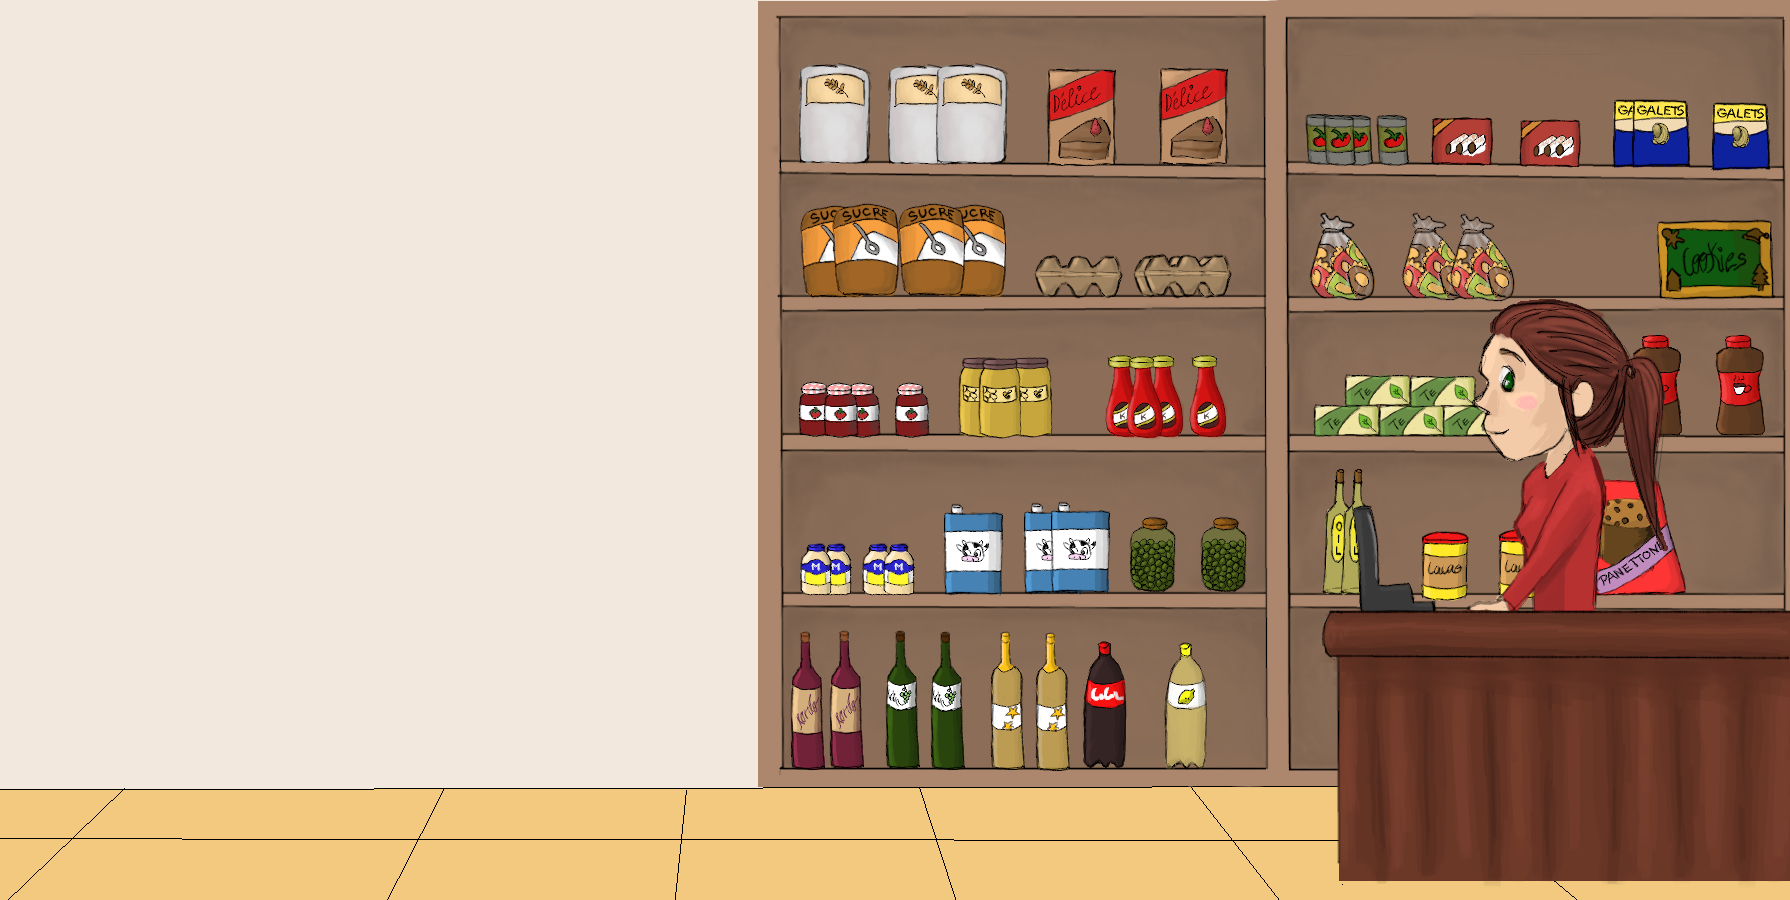
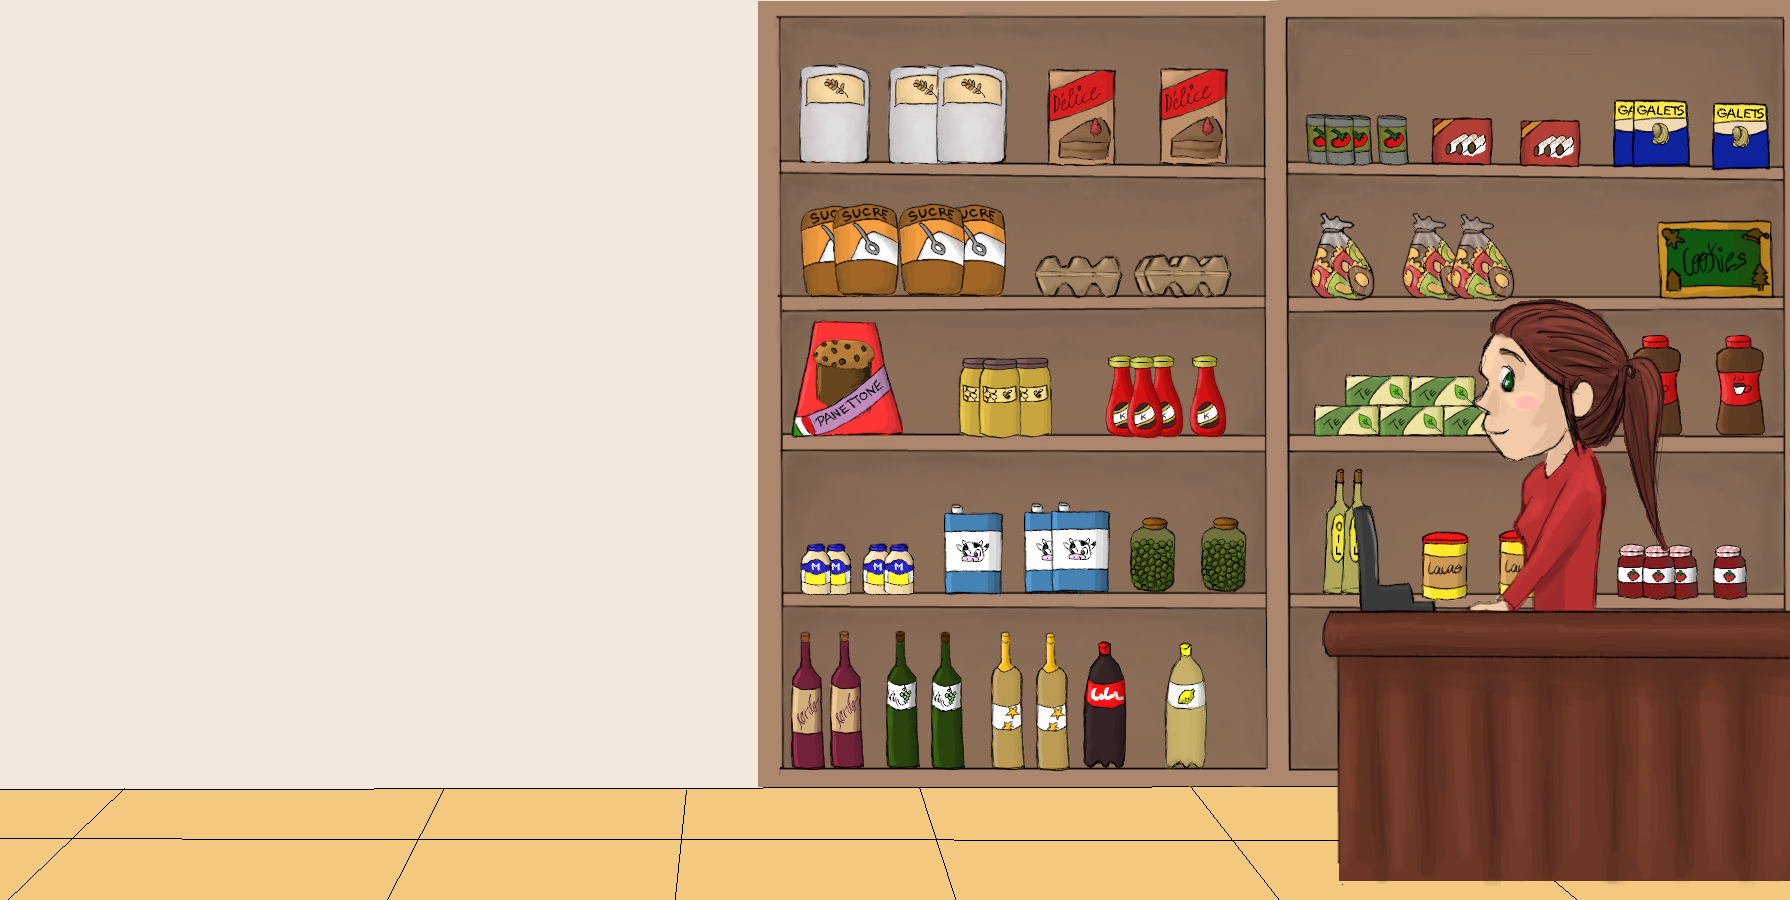
fix panettone bug & border & center items navbar

Changed region(s): [[0.8911, 0.5289, 0.9832, 0.6844], [0.4302, 0.3422, 0.5223, 0.4978]]

diff --git a/webApp/game_mireia/js.js b/webApp/game_mireia/js.js
@@ -1,24 +1,24 @@
 let character = { x: 50, y: 140 };
 let productsGrocery = [{ name: "Harina", img: "img/Grocery/Harina.png", x: 395, y: 6 },
-{ name: "Masa pastel", img: "img/Grocery/Masa pastel.png", x: 535, y: 7 }, { name: "Azúcar", img: "img/Grocery/Azúcar.png", x: 415, y: 78},
-{ name: "Huevos", img: "img/Grocery/Huevos.png", x: 489, y: 114 }, { name: "Salsa de tomate", img: "img/Grocery/Salsa de tomate.png", x: 673, y: 42 },
-{ name: "Galletas", img: "img/Grocery/Galletas.png", x: 763, y: 89 }, { name: "Polvorones", img: "img/Grocery/Polvorones.png", x: 665, y: 83 },
-{ name: "Láminas para canelones", img: "img/Grocery/Láminas para canelones.png", x: 720, y: 46 }, { name: "Galets", img: "img/Grocery/Galets.png", x: 820, y: 30 },
-{ name: "Miel", img: "img/Grocery/Miel.png", x: 505, y: 158 }, { name: "Ketchup", img: "img/Grocery/Ketchup.png", x: 567, y: 154 },
-{ name: "Mermelada", img: "img/Grocery/Mermelada.png", x: 426, y: 176 }, { name: "Té", img: "img/Grocery/Té.png", x: 668, y: 164 },
-{ name: "Café", img: "img/Grocery/Café.png", x: 825, y: 142 }, { name: "Vino Blanco", img: "img/Grocery/Vino Blanco.png", x: 440, y: 280 },
-{ name: "Vino Tinto", img: "img/Grocery/Vino Tinto.png", x: 392, y: 276 }, { name: "Cava", img: "img/Grocery/Cava.png", x: 490, y: 280 },
-{ name: "Cola", img: "img/Grocery/Cola.png", x: 535, y: 285 }, { name: "Limonada", img: "img/Grocery/Limonada.png", x: 580, y: 288 },
-{ name: "Naranjada", img: "img/Grocery/Naranjada.png", x: 631, y: 289 }, { name: "Mayonesa", img: "img/Grocery/mayonesa.png", x: 412, y: 258 }, 
-{name: "Aceite", img: "img/Grocery/Aceite.png", x: 640, y: 202}, {name: "Cacao en polvo", img: "img/Grocery/Cacao en polvo.png", x: 715, y: 248},
-{name: "Olivas", img: "img/Grocery/Olivas.png", x: 570, y: 240}, {name: "Leche", img: "img/Grocery/Leche.png", x: 470, y: 228},
-{name: "Panettone", img: "img/Grocery/Panettone.png", x: 805, y: 209}];
+{ name: "Masa pastel", img: "img/Grocery/Masa pastel.png", x: 535, y: 7 }, { name: "Azúcar", img: "img/Grocery/Azúcar.png", x: 415, y: 76},
+{ name: "Huevos", img: "img/Grocery/Huevos.png", x: 485, y: 113 }, { name: "Salsa de tomate", img: "img/Grocery/Salsa de tomate.png", x: 673, y: 41 },
+{ name: "Galletas", img: "img/Grocery/Galletas.png", x: 763, y: 88 }, { name: "Polvorones", img: "img/Grocery/Polvorones.png", x: 665, y: 82 },
+{ name: "Láminas para canelones", img: "img/Grocery/Láminas para canelones.png", x: 720, y: 45 }, { name: "Galets", img: "img/Grocery/Galets.png", x: 820, y: 29 },
+{ name: "Miel", img: "img/Grocery/Miel.png", x: 505, y: 157 }, { name: "Ketchup", img: "img/Grocery/Ketchup.png", x: 567, y: 152 },
+{ name: "Mermelada", img: "img/Grocery/Mermelada.png", x: 835, y: 255}, { name: "Té", img: "img/Grocery/Té.png", x: 668, y: 163 },
+{ name: "Café", img: "img/Grocery/Café.png", x: 822, y: 139 }, { name: "Vino Blanco", img: "img/Grocery/Vino Blanco.png", x: 440, y: 277 },
+{ name: "Vino Tinto", img: "img/Grocery/Vino Tinto.png", x: 392, y: 272 }, { name: "Cava", img: "img/Grocery/Cava.png", x: 490, y: 278 },
+{ name: "Cola", img: "img/Grocery/Cola.png", x: 535, y: 282 }, { name: "Limonada", img: "img/Grocery/Limonada.png", x: 580, y: 284 },
+{ name: "Naranjada", img: "img/Grocery/Naranjada.png", x: 631, y: 285 }, { name: "Mayonesa", img: "img/Grocery/mayonesa.png", x: 412, y: 255 }, 
+{name: "Aceite", img: "img/Grocery/Aceite.png", x: 640, y: 200}, {name: "Cacao en polvo", img: "img/Grocery/Cacao en polvo.png", x: 715, y: 245},
+{name: "Olivas", img: "img/Grocery/Olivas.png", x: 567, y: 237}, {name: "Leche", img: "img/Grocery/Leche.png", x: 470, y: 225},
+{name: "Panettone", img: "img/Grocery/Panettone.png", x: 390, y: 128}];
 
 let productsFruit = [{ name: "Manzana", img: "img/Fruits/Manzana.png", x: 760, y: 325 }, { name: "Uva", img: "img/Fruits/Uva.png", x: 690, y: 260 },
 { name: "Plátanos", img: "img/Fruits/Plátanos.png", x: 625, y: 256 }, { name: "Pera", img: "img/Fruits/Pera.png", x: 700, y: 190 }, { name: "Mandarina", img: "img/Fruits/Mandarina.png", x: 820, y: 250 },
 { name: "Zanahoria", img: "img/Fruits/Zanahoria.png", x: 810, y: 75 }, { name: "Cebolla", img: "img/Fruits/Cebolla.png", x: 810, y: 160 },
 { name: "Ciruela", img: "img/Fruits/Ciruela.png", x: 870, y: 100 }, { name: "Pimiento", img: "img/Fruits/Pimiento.png", x: 740, y: 140 },
-{ name: "Tomate", img: "img/Fruits/Tomate.png", x: 870, y: 198 }, {name: "Berenjena", img: "img/Fruits/Berenjena.png", x: 230, y: 265}, 
+{ name: "Tomate", img: "img/Fruits/Tomate.png", x: 865, y: 198 }, {name: "Berenjena", img: "img/Fruits/Berenjena.png", x: 230, y: 265}, 
 { name: "Piña", img: "img/Fruits/Piña.png", x: 423, y: 142}, {name: "Granada", img: "img/Fruits/Granada.png", x: 505, y: 280}, { name: "Limón", img: "img/Fruits/Limón.png", x: 740, y: 220} 
 ];
 
@@ -479,7 +479,7 @@ function endGame() {
     eraseProducts();
     afterGame = document.getElementById("afterGame");
     afterGame.style.display = "inline-block";
-    document.querySelector("#afterGame > h1").innerHTML = "Has conseguido " + points + " puntos!";
+    document.querySelector("#afterGame > h1").innerHTML = "¡Has conseguido " + points + " puntos!";
     document.getElementById("replay").addEventListener("click", startGame);
 }
 

diff --git a/webApp/game_mireia/css.css b/webApp/game_mireia/css.css
@@ -9,6 +9,10 @@ body{
     background-color: #C9DBE3;
 }
 
+#background{
+    border: 2px solid rgb(32, 32, 32);
+}
+
 .gameContainer{
     position: absolute;
     right: 0px;
@@ -152,7 +156,7 @@ body{
 #basket{
     position: absolute;
     top: 375px;
-    left: 825px;
+    left: 820px;
     height: 65px;
     background-color: rgb(233, 167, 92);
     border: black 1px solid;
@@ -315,8 +319,8 @@ font-family: 'Montserrat', sans-serif;
     width: 100%;
     text-align: center;
     box-sizing: border-box;
-    height: 450px;
-    width: 895px;
+    /* height: 450px;
+    width: 895px; */
     font-family: 'Montserrat', sans-serif;
 }
 

diff --git a/style/style-navbar.css b/style/style-navbar.css
@@ -56,7 +56,6 @@
   width: 150px;
   display: inline;
   text-align: center;
-  margin-top: 20px;
 }
 
 .sidebar > ul > li {
@@ -80,4 +79,6 @@
   text-decoration: none;
   color: #ffb35c;
   display: flex;
+  box-sizing: border-box;
+  align-items: center;
 }

diff --git a/index.php b/index.php
@@ -134,7 +134,6 @@ if (isset($_SESSION['user'])) {
     </div>
   </section>
   <script src="/project1/js/nomWebApp.js"></script>
-  <script src="/project1/js/navbar.js"></script>
   <script src="/project1/lang/ESP.js"></script>
   <script src="/project1/lang/ENG.js"></script>
   <script src="/project1/lang/CAT.js"></script>

diff --git a/webApp/game_mireia/index.php b/webApp/game_mireia/index.php
@@ -144,7 +144,7 @@
         </div>
     </div>
     </div>
-    <!-- <script src="/project1/js/navbar.js"></script> -->
+
     <script src="js.js"></script>
 </body>
 
